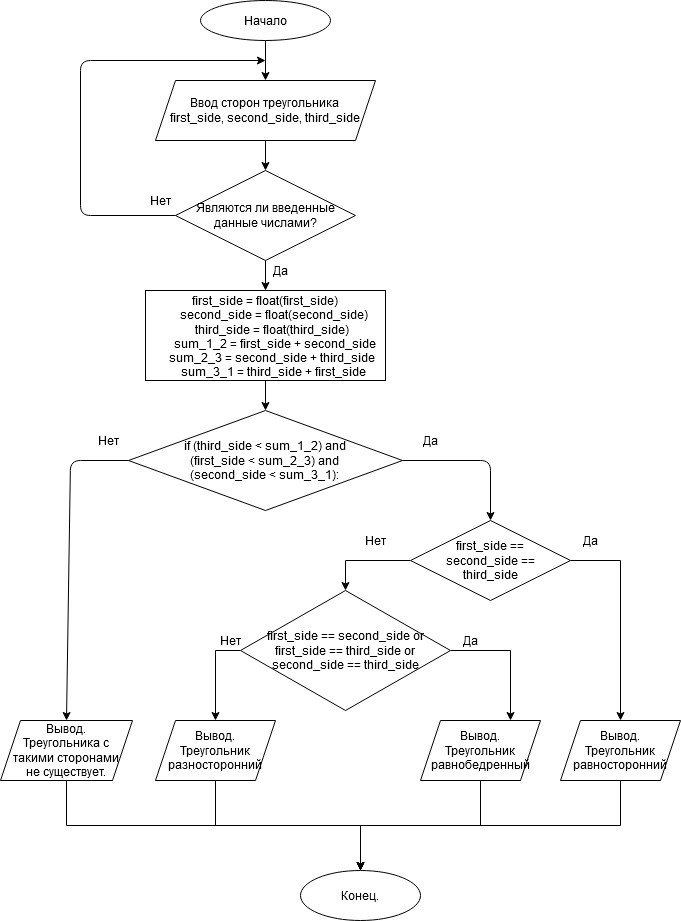
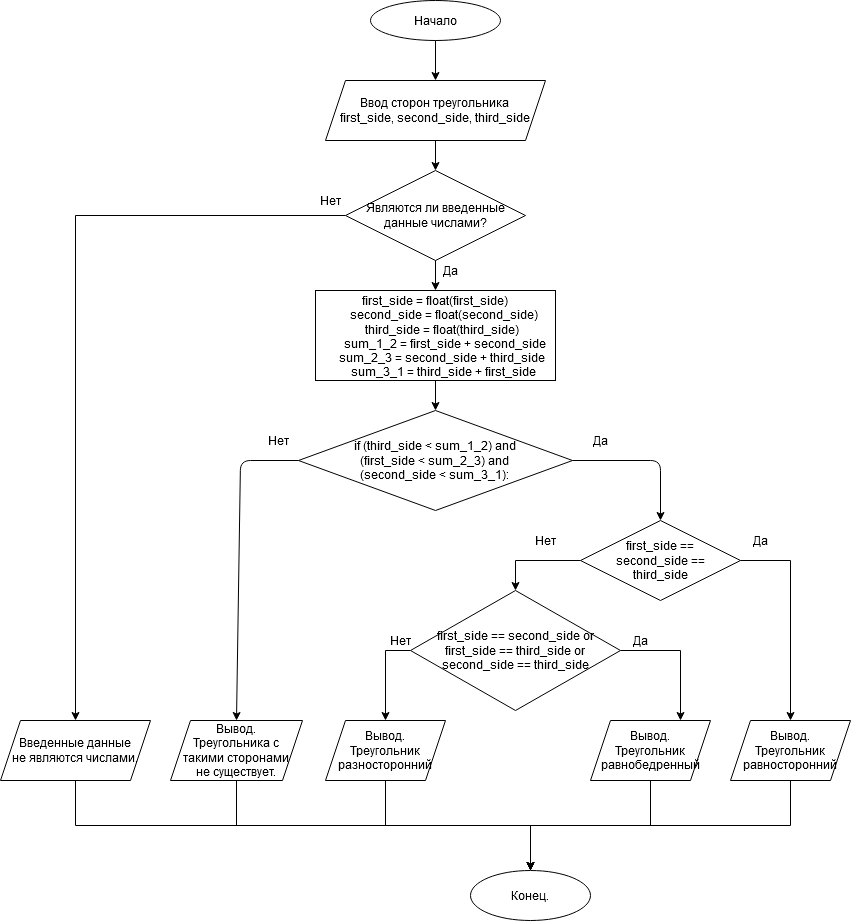
while, for & [] removed from hw1 (technical specification)

diff --git a/hw1/hw1_3.py b/hw1/hw1_3.py
@@ -8,53 +8,37 @@
 import random
 import string
 
-
-def is_num(string):
-    if string.isdigit():
-       return True
-    else:
-        try:
-            float(string)
-            return True
-        except ValueError:
-            return False
+bot_bord_int = (input('Введите нижнюю границу (целое число): '))
+up_bord_int = (input('Введите верхнюю границу (целое число): '))
+if (bot_bord_int.isdigit()) and (up_bord_int.isdigit()):
+    bot_bord_int = int(bot_bord_int)
+    up_bord_int = int(up_bord_int)
+    print(random.randint(bot_bord_int, up_bord_int))
+else:
+    print('Необходимо ввести именно числа.')
 
 
-while True:
-    bot_bord_int = (input('Введите нижнюю границу (целое число): '))
-    up_bord_int = (input('Введите верхнюю границу (целое число): '))
-    if (bot_bord_int.isdigit()) and (up_bord_int.isdigit()):
-        bot_bord_int = int(bot_bord_int)
-        up_bord_int = int(up_bord_int)
-        print(random.randint(bot_bord_int, up_bord_int))
-        break
-    else:
-        print('Необходимо ввести именно числа.')
+bot_bord_float = (input('Введите нижнюю границу (вещественное число): '))
+up_bord_float = (input('Введите верхнюю границу (вещественное число): '))
+try:
+    bot_bord_float = float(bot_bord_float)
+    up_bord_float = float(up_bord_float)
+    print(random.uniform(bot_bord_float, up_bord_float))
+except:
+    print('Необходимо ввести именно числа.')
 
-while True:
-    bot_bord_float = (input('Введите нижнюю границу (вещественное число): '))
-    up_bord_float = (input('Введите верхнюю границу (вещественное число): '))
-    if is_num(bot_bord_float) and is_num(up_bord_float):
-        bot_bord_float = float(bot_bord_float)
-        up_bord_float = float(up_bord_float)
-        print(random.uniform(bot_bord_float, up_bord_float))
-        break
-    else:
-        print('Необходимо ввести именно числа.')
 
-while True:
-    bot_symbol = input('Введите первый символ: ')
-    up_symbol = input('Введите второй символ: ')
-    if (bot_symbol.lower() in string.ascii_lowercase) and (up_symbol.lower() in string.ascii_lowercase) and (string.ascii_lowercase.find(bot_symbol.lower()) < string.ascii_lowercase.find(up_symbol.lower())):
-        bot_symbol = bot_symbol.lower()
-        up_symbol = up_symbol.lower()
-        index_first = string.ascii_lowercase.find(bot_symbol)
-        index_second = string.ascii_lowercase.find(up_symbol)
-        str_find = string.ascii_lowercase[index_first: index_second + 1]
-        str_list = []
-        for el in str_find:
-            str_list.append(el)
-        print(random.choice(str_list))
-        break
-    else:
-        print('Ошибка. Введите английские символы по порядку.')
+bot_symbol = input('Введите первый символ: ')
+up_symbol = input('Введите второй символ: ')
+if (bot_symbol.lower() in string.ascii_lowercase) and (up_symbol.lower() in string.ascii_lowercase) and (string.ascii_lowercase.find(bot_symbol.lower()) < string.ascii_lowercase.find(up_symbol.lower())):
+    bot_symbol = bot_symbol.lower()
+    up_symbol = up_symbol.lower()
+    index_first = string.ascii_lowercase.find(bot_symbol)
+    index_second = string.ascii_lowercase.find(up_symbol)
+    str_find = string.ascii_lowercase[index_first: index_second + 1]
+    str_len = len(str_find)
+    rand_index = random.randint(0, str_len)
+    random_str_elem = str_find[rand_index]
+    print(random_str_elem)
+else:
+    print('Ошибка. Введите английские символы по порядку.')

diff --git a/hw1/hw1_6.py b/hw1/hw1_6.py
@@ -3,41 +3,27 @@
 # Если такой треугольник существует, то определить,
 # является ли он разносторонним, равнобедренным или равносторонним.
 
-def is_num(string):
-    if string.isdigit():
-       return True
-    else:
-        try:
-            float(string)
-            return True
-        except ValueError:
-            return False
 
-
-while True:
-    first_side = input('Введите длину первой стороны: ')
-    second_side = input('Введите длину второй стороны: ')
-    third_side = input('Введите длину третьей стороны: ')
-    if is_num(first_side) and is_num(second_side) and is_num(third_side):
-        first_side = float(first_side)
-        second_side = float(second_side)
-        third_side = float(third_side)
-        sum_1_2 = first_side + second_side
-        sum_2_3 = second_side + third_side
-        sum_3_1 = third_side + first_side
-        if (third_side < sum_1_2) and (first_side < sum_2_3) and (second_side < sum_3_1):
-            print('Треугольник существует.')
-            if first_side == second_side == third_side:
-                print('Треугольник со сторонами {0}, {1}, {2} - равносторонний.'.format(first_side, second_side, third_side))
-                break
-            elif first_side == second_side or first_side == third_side or second_side == third_side:
-                print('Треугольник со сторонами {0}, {1}, {2} - равнобедренный.'.format(first_side, second_side, third_side))
-                break
-            else:
-                print('Треугольник со сторонами {0}, {1}, {2} - разносторонний.'.format(first_side, second_side, third_side))
-                break
+first_side = input('Введите длину первой стороны: ')
+second_side = input('Введите длину второй стороны: ')
+third_side = input('Введите длину третьей стороны: ')
+if first_side.isdigit() and second_side.isdigit() and third_side.isdigit():
+    first_side = float(first_side)
+    second_side = float(second_side)
+    third_side = float(third_side)
+    sum_1_2 = first_side + second_side
+    sum_2_3 = second_side + third_side
+    sum_3_1 = third_side + first_side
+    if (third_side < sum_1_2) and (first_side < sum_2_3) and (second_side < sum_3_1):
+        print('Треугольник существует.')
+        if first_side == second_side == third_side:
+            print('Треугольник со сторонами {0}, {1}, {2} - равносторонний.'.format(first_side, second_side, third_side))
+        elif first_side == second_side or first_side == third_side or second_side == third_side:
+            print('Треугольник со сторонами {0}, {1}, {2} - равнобедренный.'.format(first_side, second_side, third_side))
         else:
-            print('Такого треугольника не существует.')
-            break
+            print('Треугольник со сторонами {0}, {1}, {2} - разносторонний.'.format(first_side, second_side, third_side))
+
     else:
-        print('Введите числа.')
+        print('Такого треугольника не существует.')
+else:
+    print('Введенные данные не являются числами.')

diff --git a/hw1/hw1_2.py b/hw1/hw1_2.py
@@ -1,30 +1,18 @@
 # 2. По введенным пользователем координатам двух точек
 # вывести уравнение прямой вида y = kx + b, проходящей через эти точки.
 
-def is_num(string):
-    if string.isdigit():
-       return True
-    else:
-        try:
-            float(string)
-            return True
-        except ValueError:
-            return False
-
-while True:
-    x_first = (input('Введите x первой точки: '))
-    y_first = (input('Введите y первой точки: '))
-    x_second = (input('Введите x второй точки: '))
-    y_second = (input('Введите y второй точки: '))
-    if is_num(x_first) and is_num(y_first) and is_num(x_second) and is_num(y_second):
-        print('Вы ввели точки: ({0}, {1}), ({2}, {3})'.format(x_first, y_first, x_second, y_second))
-        x_first = float(x_first)
-        x_second = float(x_second)
-        y_first = float(y_first)
-        y_second = float(y_second)
-        k = (y_second - y_first) / (x_second - x_first)
-        b = (y_second * x_first - x_second * y_first) / (x_first - x_second)
-        print('y = {0} * x + {1}'.format(k, b))
-        break
-    else:
-        print('Вы должны ввести числа.')
+x_first = (input('Введите x первой точки: '))
+y_first = (input('Введите y первой точки: '))
+x_second = (input('Введите x второй точки: '))
+y_second = (input('Введите y второй точки: '))
+if x_first.isdigit() and y_first.isdigit() and x_second.isdigit() and y_second.isdigit():
+    print('Вы ввели точки: ({0}, {1}), ({2}, {3})'.format(x_first, y_first, x_second, y_second))
+    x_first = int(x_first)
+    x_second = int(x_second)
+    y_first = int(y_first)
+    y_second = int(y_second)
+    k = (y_second - y_first) / (x_second - x_first)
+    b = (y_second * x_first - x_second * y_first) / (x_first - x_second)
+    print('y = {0} * x + {1}'.format(k, b))
+else:
+    print('Вы должны ввести числа.')

diff --git a/hw1/hw1_4.py b/hw1/hw1_4.py
@@ -3,15 +3,13 @@
 
 import string
 
-while True:
-    first_letter = input('Введите первую буквы: ')
-    second_letter = input('Введите вторую букву: ')
-    if first_letter in string.ascii_letters and second_letter in string.ascii_letters:
-        first_letter_low = first_letter.lower()
-        second_letter_low = second_letter.lower()
-        fl_pos = string.ascii_lowercase.find(first_letter_low) + 1
-        sl_pos = string.ascii_lowercase.find(second_letter_low) + 1
-        print('Буква - позиция: {0} - {1}, {2} - {3}'.format(first_letter, fl_pos, second_letter_low, sl_pos))
-        break
-    else:
-        print('Вы должны ввести английские буквы.')
+first_letter = input('Введите первую буквы: ')
+second_letter = input('Введите вторую букву: ')
+if first_letter in string.ascii_letters and second_letter in string.ascii_letters:
+    first_letter_low = first_letter.lower()
+    second_letter_low = second_letter.lower()
+    fl_pos = string.ascii_lowercase.find(first_letter_low) + 1
+    sl_pos = string.ascii_lowercase.find(second_letter_low) + 1
+    print('Буква - позиция: {0} - {1}, {2} - {3}'.format(first_letter, fl_pos, second_letter_low, sl_pos))
+else:
+    print('Вы должны ввести английские буквы.')

diff --git a/hw1/hw1_5.py b/hw1/hw1_5.py
@@ -2,11 +2,9 @@
 
 import string
 
-while True:
-    num_letter = input('Введите номер буквы в английском алфавите: ')
-    if (num_letter.isdigit()) and (int(num_letter) >= 1) and (int(num_letter) <= 26):
-        letter_num = string.ascii_lowercase[int(num_letter) - 1]
-        print('Под номером {0} находится буква {1}'.format(num_letter, letter_num))
-        break
-    else:
-        print('Вам необходимо ввести целое число от 1 до 26.')
+num_letter = input('Введите номер буквы в английском алфавите: ')
+if (num_letter.isdigit()) and (int(num_letter) >= 1) and (int(num_letter) <= 26):
+    letter_num = string.ascii_lowercase[int(num_letter) - 1]
+    print('Под номером {0} находится буква {1}'.format(num_letter, letter_num))
+else:
+    print('Вам необходимо ввести целое число от 1 до 26.')
